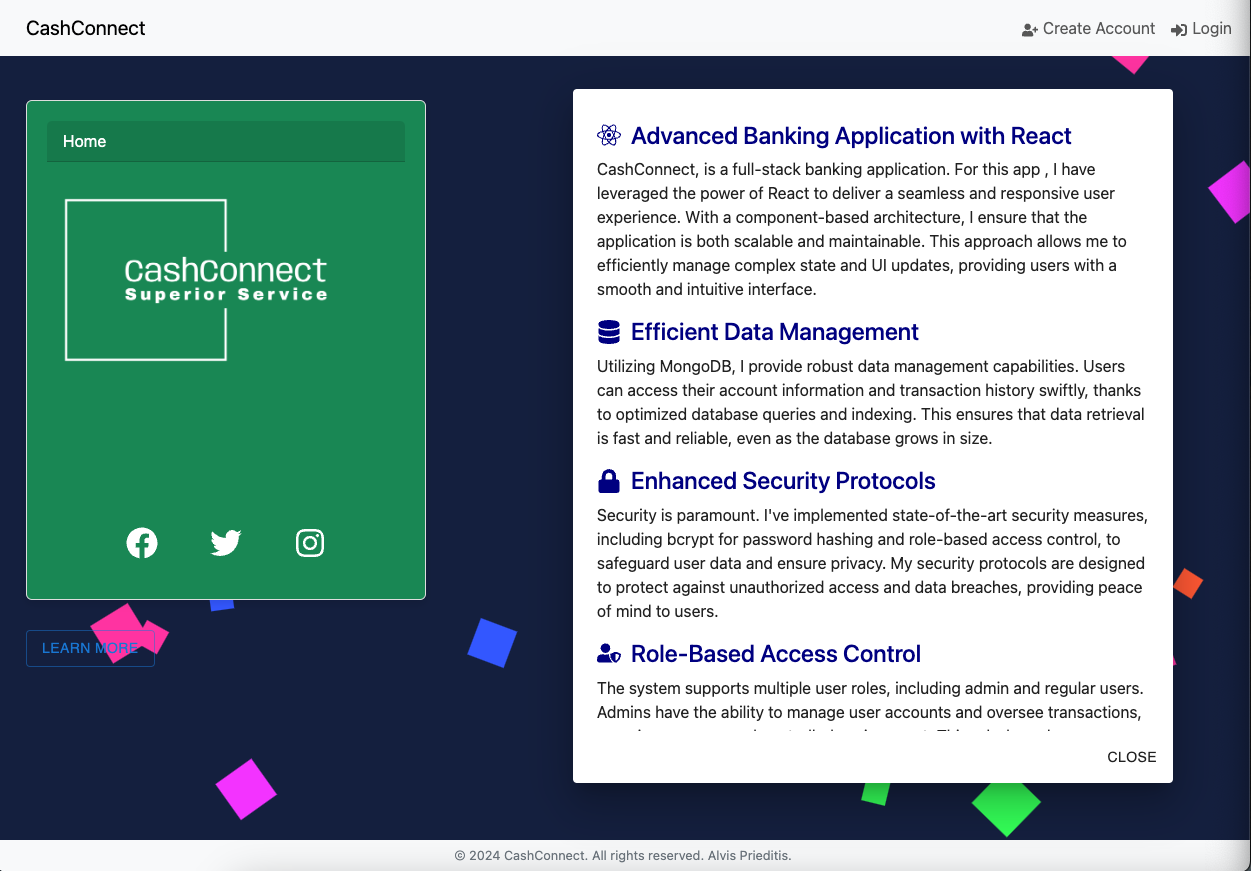
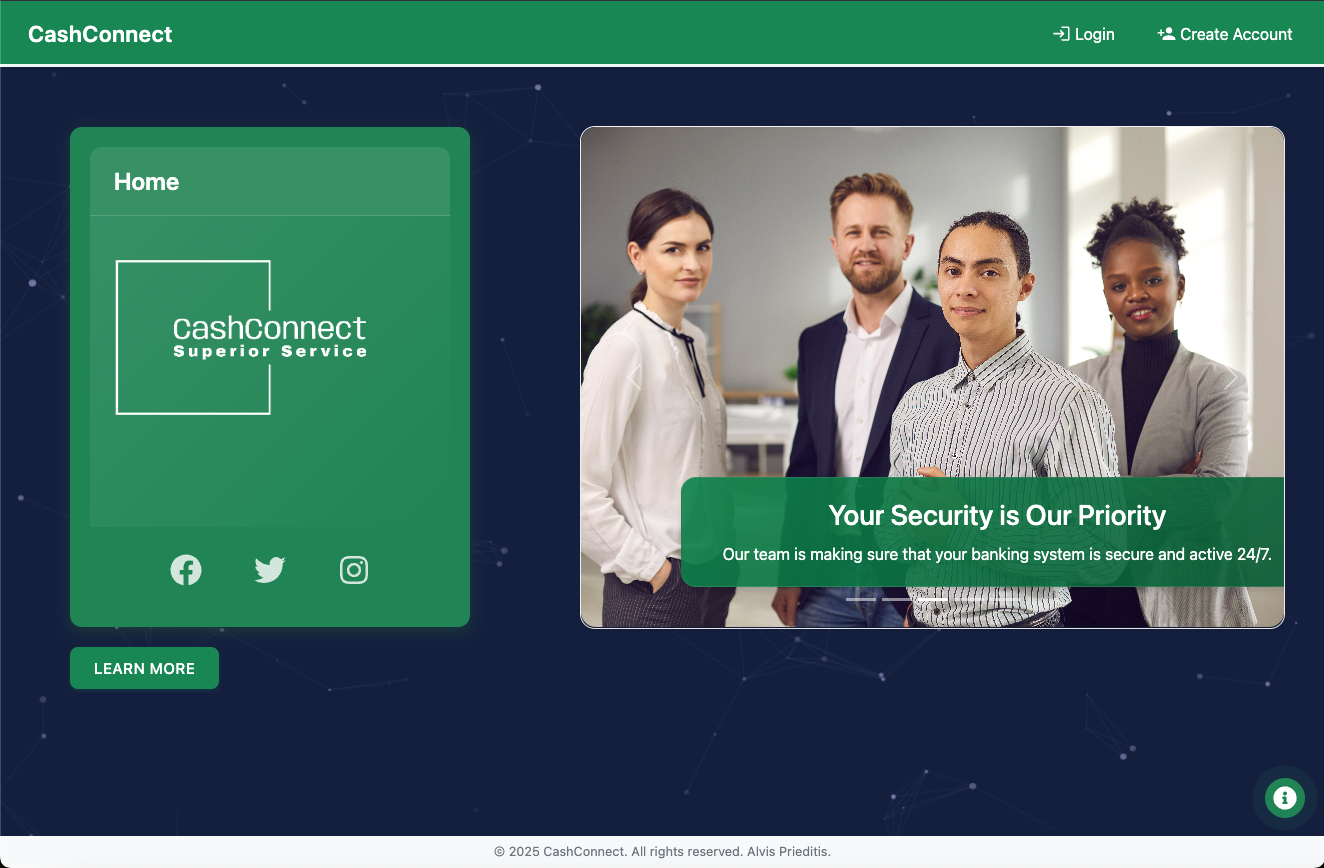
modified readme file with new images

diff --git a/README.md b/README.md
@@ -68,9 +68,9 @@ To get the project up and running, follow these steps:
 
 ![Home Page](./readme%20assets/HomePage.png)
 
-**Balance Page**
+**About**
 
-![Balance Page](./readme%20assets/BalancePage.png)
+![About Page](./readme%20assets/AboutPage.png)
 
 ## License
 This project is licensed under the ISC License. See the [LICENSE](./LICENSE) file for more details.
